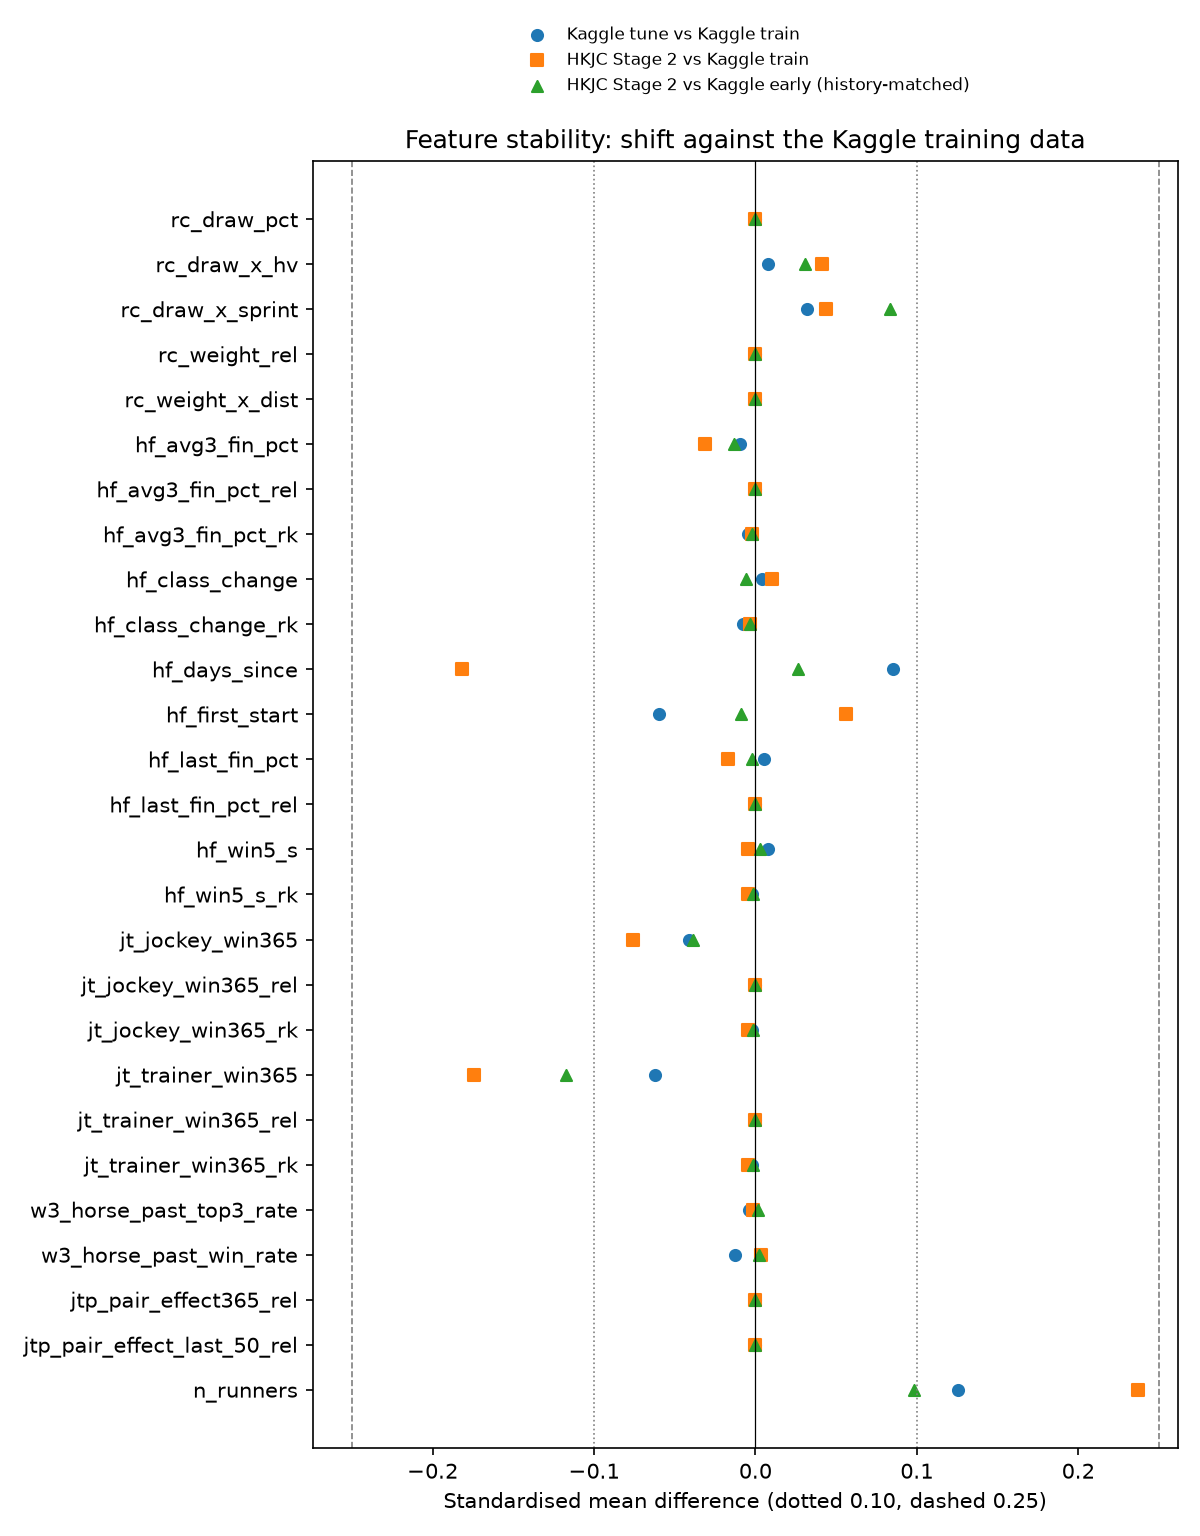
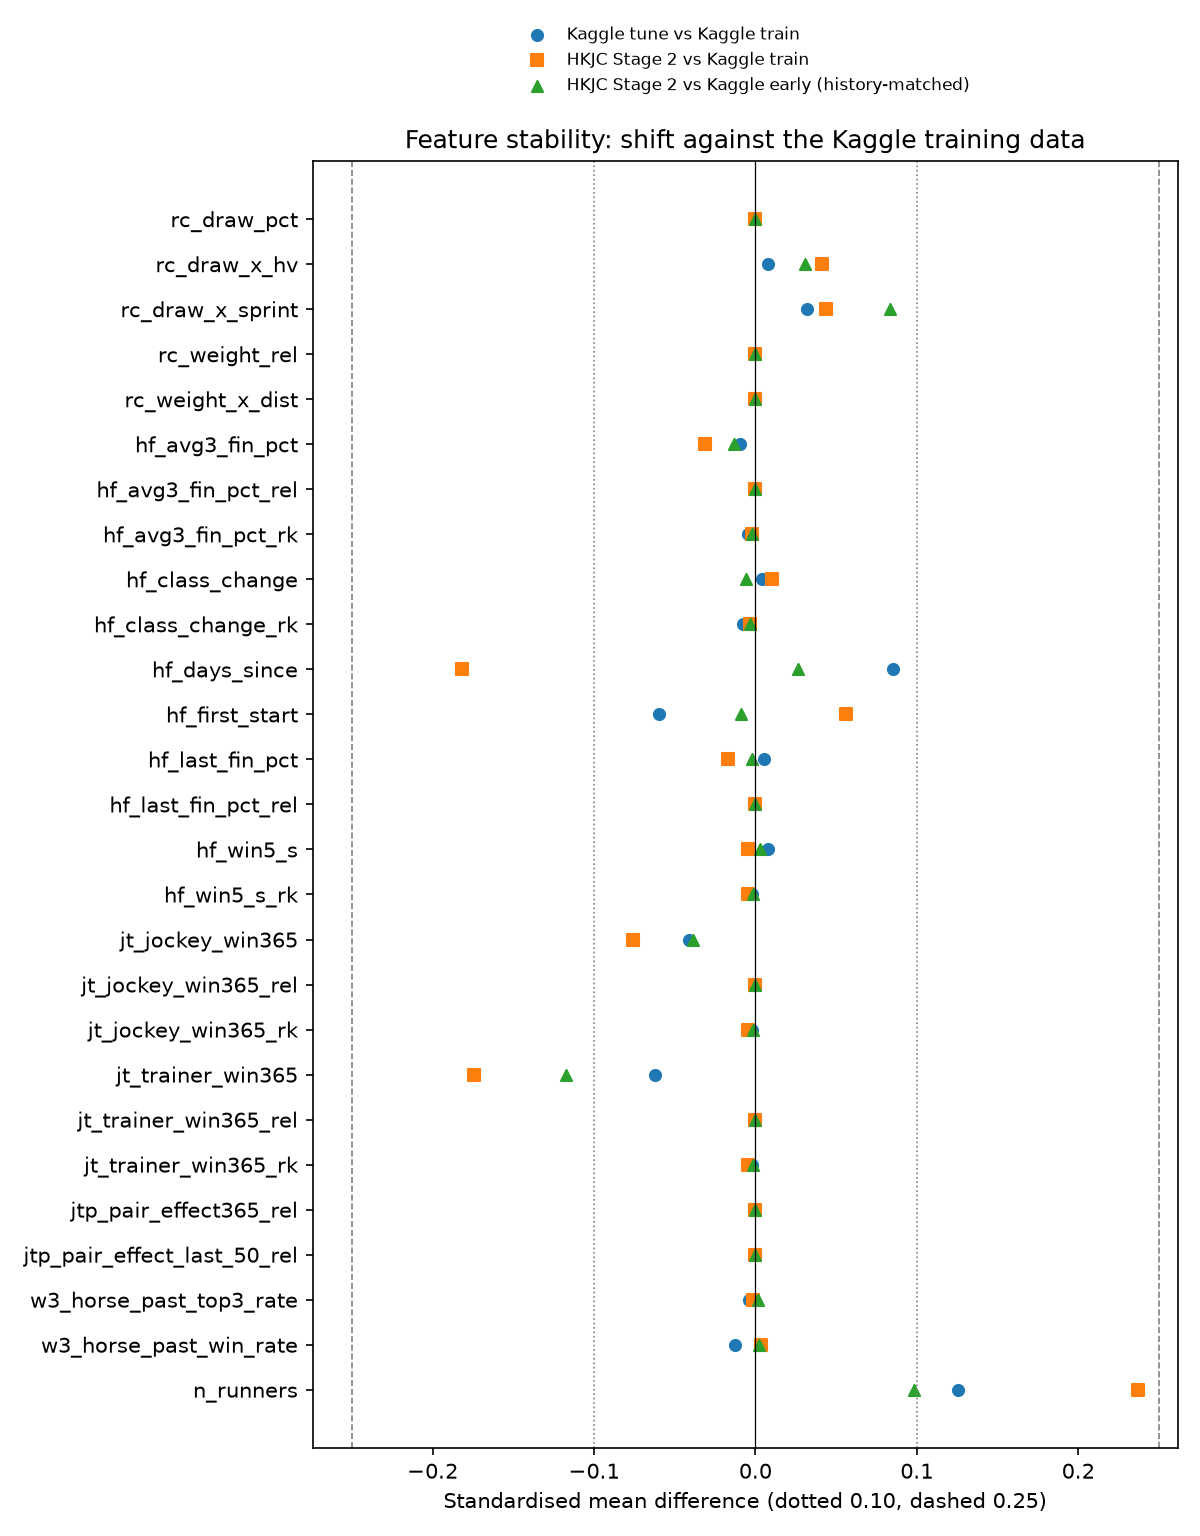
Stability audit: read features from the registry, show registry disagreements
Feature list now comes from model_logic/feature_registry.py joined with the model scripts' lists; new --all-registry flag audits helper columns. Report lists features whose registry status differs from the audit (today: both jt_trainer_win365 features, registry watch vs audit review). Treats jtp_ and td_ as history features. Re-run on 5933fa2 reproduces the 4 Nov numbers exactly (max diff 0.0). README label and test count updated.

Changed region(s): [[0.0308, 0.7812, 0.2467, 0.9062], [0.6167, 0.8125, 0.6475, 0.875]]

diff --git a/analysis/feature_stability_audit.py b/analysis/feature_stability_audit.py
@@ -46,7 +46,8 @@ MISSING_PP = 5.0           # blank-rate difference, percentage points
 EFFECT_Z = 2.0             # coefficient difference, in combined standard errors
 REFERENCE = "k_train"
 EFFECT_WINDOWS = ["k_train", "k_early", "k_tune", "h_s2"]   # never h_test
-HISTORY_GROUPS = ("hf", "jt", "w3")      # features built from a horse's or person's past starts
+# features built from a horse's, person's or pair's past starts (shorter HKJC history shifts them)
+HISTORY_GROUPS = ("hf", "jt", "jtp", "td", "w3")
 RAW_VERSIONS = ["jt_jockey_win365", "jt_trainer_win365", "hf_last_fin_pct", "hf_avg3_fin_pct"]
 
 
@@ -64,16 +65,51 @@ def load(name: str):
     return module
 
 
-def build(data_path: Path) -> tuple[pd.DataFrame, list[str]]:
+def build(data_path: Path, all_registry: bool = False) -> tuple[pd.DataFrame, list[str], dict]:
+    """Build the features the models use and decide which ones to audit.
+
+    The feature list comes from Fahim's registry (model_logic/feature_registry.py), joined with
+    the model scripts' own lists, so a feature added to the registry is audited automatically.
+    Default = every feature a model can use (registry "lgbm" set, which includes the
+    conditional-logit set, plus the scripts' lists and the raw versions). With all_registry=True
+    every IMPLEMENTED registry feature is audited, including intermediate helper columns
+    (ride counts, baselines) that no model reads directly.
+
+    Returns the built data, the audited feature names, and a coverage dict.
+    """
     cl = load("conditional_logit_tuning_v2")
     lgb2 = load("lightgbm_independent_probability_v2")
     v1 = load("lightgbm_independent_probability")
+    fr = load("feature_registry")
     data = cl.build_features(pd.read_parquet(data_path))
     v2 = lgb2.add_context_features(data, list(cl.ALL_FEATURES))
-    feats = set(cl.ALL_FEATURES) | set(v2) | set(v1.FEATURES) | set(RAW_VERSIONS)
-    order = {"rc": 0, "hf": 1, "jt": 2, "w3": 3}
+    scripts = set(cl.ALL_FEATURES) | set(v2) | set(v1.FEATURES) | set(RAW_VERSIONS)
+    registry_models = set(fr.get_features("lgbm")) | set(fr.get_features("conditional_logit"))
+    registry_all = set(fr.get_features("all"))
+    wanted = scripts | registry_models | (registry_all if all_registry else set())
+    # a feature the builder does not produce cannot be audited; report it instead of crashing
+    feats = {f for f in wanted if f in data.columns}
+    order = {"rc": 0, "hf": 1, "jt": 2, "jtp": 3, "td": 4, "w3": 5}
     feats = sorted(feats, key=lambda f: (order.get(f.split("_")[0], 9), f))
-    return data, feats
+    coverage = {
+        "registry_version": fr.REGISTRY_VERSION,
+        "registry_hash": fr.registry_hash(),
+        "registry_implemented": len(registry_all),
+        "registry_implemented_not_audited": sorted(registry_all - set(feats)),
+        "wanted_but_not_built": sorted(wanted - set(feats)),
+        "all_registry": all_registry,
+    }
+    return data, feats, coverage
+
+
+def add_registry_status(summary: pd.DataFrame) -> pd.DataFrame:
+    """Attach the status Fahim's registry gives each feature, and flag disagreements."""
+    fr = load("feature_registry")
+    registry = {spec.name: spec.status for spec in fr.REGISTRY}
+    out = summary.copy()
+    out["registry_status"] = out["feature"].map(registry)
+    out["status_agrees"] = out["status"].eq(out["registry_status"])
+    return out
 
 
 def windows(d: pd.DataFrame) -> dict[str, pd.Series]:
@@ -286,6 +322,28 @@ def report(summary: pd.DataFrame, meta: dict, path: Path) -> None:
             f"{fmt(r['smd_h_s2_vs_k_early'])} | {r['psi_h_s2']:.3f} | {r['psi_h_s2_vs_k_early']:.3f} | "
             f"{r['psi_k_tune']:.3f} | {fmt(r['missing_pp_h_s2'], 1)} | {coef(r, 'k_train')} | "
             f"{coef(r, 'k_early')} | {coef(r, 'h_s2')} | {r['reasons']} |")
+    # where this audit and Fahim's feature registry give a feature different statuses
+    cov = meta.get("coverage", {})
+    lines += ["", "## Agreement with the feature registry", "",
+              f"Registry `{cov.get('registry_version', '?')}` (hash `{str(cov.get('registry_hash', ''))[:12]}...`). "
+              f"{cov.get('registry_implemented', '?')} implemented features; "
+              f"{len(cov.get('registry_implemented_not_audited', []))} not audited in this run "
+              f"({'all registry features' if cov.get('all_registry') else 'default: model inputs only; use --all-registry for helper columns'}).", ""]
+    if "status_agrees" in summary.columns:
+        bad = summary.loc[~summary["status_agrees"]]
+        if bad.empty:
+            lines.append("Every audited feature has the same status in the registry and in this audit.")
+        else:
+            lines += ["These features have a different status in the registry than in this audit. "
+                      "Ask the registry owner to update the label, or explain why not.", "",
+                      "| Feature | This audit | Registry | Why this audit says so |", "|---|---|---|---|"]
+            for _, r in bad.iterrows():
+                lines.append(f"| `{r['feature']}` | **{r['status']}** | {r['registry_status']} | {r['reasons']} |")
+    not_built = cov.get("wanted_but_not_built", [])
+    if not_built:
+        lines += ["", f"Listed by a model or the registry but not built by the feature builder, so not audited: "
+                      f"{', '.join(f'`{n}`' for n in not_built)}."]
+
     lines += ["", "## h_test (information only, do not use for feature choice)", "",
               "| Feature | SMD h_test vs h_s2 | PSI h_test vs h_s2 | Blank pp |", "|---|---|---|---|"]
     for _, r in s.iterrows():
@@ -300,12 +358,15 @@ def main() -> int:
     parser = argparse.ArgumentParser()
     parser.add_argument("--data", type=Path, default=REPO / "data/clean data/runners_merged.parquet")
     parser.add_argument("--output-dir", type=Path, default=default_out)
+    parser.add_argument("--all-registry", action="store_true",
+                        help="also audit intermediate registry helper columns (ride counts, baselines)")
     args = parser.parse_args()
     args.output_dir.mkdir(parents=True, exist_ok=True)
     t0 = time.time()
 
-    data, feats = build(args.data)
+    data, feats, coverage = build(args.data, all_registry=args.all_registry)
     stats, summary = audit(data, feats)
+    summary = add_registry_status(summary)
     try:
         commit = subprocess.run(["git", "-C", str(REPO), "rev-parse", "--short", "HEAD"],
                                 capture_output=True, text=True, check=True).stdout.strip()
@@ -320,6 +381,7 @@ def main() -> int:
         "thresholds": {"smd": [SMD_SMALL, SMD_LARGE], "psi": [PSI_SMALL, PSI_LARGE],
                        "missing_pp": MISSING_PP, "effect_z": EFFECT_Z},
         "effect_windows": EFFECT_WINDOWS,
+        "coverage": coverage,
     }
     stats.to_csv(args.output_dir / "window_stats.csv", index=False)
     summary.to_csv(args.output_dir / "stability_summary.csv", index=False)
@@ -327,6 +389,10 @@ def main() -> int:
     figure(summary, args.output_dir / "smd_by_feature.png")
     report(summary, meta, args.output_dir / "stability_report.md")
     print(summary["status"].value_counts().to_string())
+    disagree = summary.loc[~summary["status_agrees"], ["feature", "status", "registry_status"]]
+    print(f"registry disagreements: {len(disagree)}")
+    if len(disagree):
+        print(disagree.to_string(index=False))
     print(f"{len(feats)} features in {time.time() - t0:.1f}s -> {args.output_dir}")
     return 0
 

diff --git a/analysis/README_FEATURE_STABILITY.md b/analysis/README_FEATURE_STABILITY.md
@@ -3,7 +3,7 @@
 **Script:** `analysis/feature_stability_audit.py` (about 35 seconds).
 **Results:** [`analysis/feature_stability_results/`](feature_stability_results/) ([`stability_report.md`](feature_stability_results/stability_report.md), [`smd_by_feature.png`](feature_stability_results/smd_by_feature.png), two CSVs, `audit_meta.json`).
 **Owner:** Ek-Anankul Wirith (Inns). Roadmap of 4 Nov, priority 5 ("Job A").
-**Run on:** 4 Nov 2026, 20:01, repo commit `b4a355e`, 27 features (the first run at `c22b3f3` had 25; the 2 new jockey-trainer pair features were added since). Not committed.
+**Run on:** 6 Nov 2026, repo commit `5933fa2`, 27 features, feature registry `v3.0`. First run was 4 Nov at `c22b3f3` with 25 features; the 2 jockey-trainer pair features were added after that. The 6 Nov re-run reproduced every number from the 4 Nov run exactly (maximum difference 0.0, same statuses). The run date and commit are always in `audit_meta.json`.
 
 ---
 
@@ -56,7 +56,7 @@ The KS statistic is also in the CSV. With thousands of runners, its p-value flag
 2. **watch** if anything else is flagged: a moderate shift, a shift explained by history length, drift inside Kaggle (train to tune), a blank-rate difference, or a different effect size.
 3. **keep** if nothing is flagged.
 
-"Explained by history length" is only applied to features built from past starts (`hf_`, `jt_`, `w3_`). Field size, for example, cannot be explained that way.
+"Explained by history length" is only applied to features built from past starts (`hf_`, `jt_`, `jtp_`, `td_`, `w3_`). Field size, for example, cannot be explained that way.
 
 ## 6. Results, feature by feature
 
@@ -94,7 +94,7 @@ Draw (`rc_draw_pct`, `rc_draw_x_hv`, `rc_draw_x_sprint`), weight (`rc_weight_rel
 | `jtp_pair_effect365_rel` | 0.047 | 0.009 | +0.334 ± 0.022 | +0.415 ± 0.056 | +0.274 ± 0.060 |
 | `jtp_pair_effect_last_50_rel` | 0.044 | 0.014 | +0.350 ± 0.022 | +0.393 ± 0.045 | +0.285 ± 0.056 |
 
-Both keep their shape in HKJC, and their effect is slightly smaller but within error. Unlike the trainer rate on its own, the pair signal carries over. Both also pass the leakage tests (22 of 22), including the source-separation test that matters for the "last 50 rides" version, which has no time window.
+Both keep their shape in HKJC, and their effect is slightly smaller but within error. Unlike the trainer rate on its own, the pair signal carries over. Both also pass the leakage tests (33 of 33), including the source-separation test that matters for the "last 50 rides" version, which has no time window.
 
 ### h_test (information only)
 
@@ -117,21 +117,32 @@ cd github\HKJC-Racing
 python analysis\feature_stability_audit.py
 ```
 
-Expected end of output:
+Expected end of output (about 1 minute):
 
 ```
 status
 keep      17
 watch      8
 review     2
-27 features in 47.4s -> ...\analysis\feature_stability_results
+registry disagreements: 2
+              feature status registry_status
+    jt_trainer_win365 review           watch
+jt_trainer_win365_rel review           watch
+27 features in 57.7s -> ...\analysis\feature_stability_results
 ```
 
 The numbers change whenever Fahim or Nayeon add features. That is expected; check that the new features appear in the report.
 
-Options: `--data <parquet>` for another input, `--output-dir <folder>` for another output folder.
+Options:
+- `--data <parquet>`: another input file.
+- `--output-dir <folder>`: another output folder.
+- `--all-registry`: also audit the intermediate helper columns in the registry (ride counts, baselines, raw pair rates) that no model reads directly. Takes about 80 seconds. Use a different `--output-dir` if you do not want to overwrite the default results.
 
-New features are picked up automatically if they are added to `ALL_FEATURES` in `conditional_logit_tuning_v2.py` or to the LightGBM feature lists (the same lists the leakage tests use). Run the leakage tests first (`leakage test/README_LEAKAGE_TESTS.md`), then this audit.
+**Where the feature list comes from (changed 6 Nov).** The audit reads Fahim's registry (`model_logic/feature_registry.py`) and joins it with the model scripts' own lists. So a feature added to the registry is audited automatically, as long as the feature builder actually produces it. A feature the registry or a model lists but the builder does not produce is reported in the "not built" line instead of crashing. Run the leakage tests first (`leakage test/README_LEAKAGE_TESTS.md`), then this audit.
+
+**Agreement with the registry.** Each feature in the registry carries its own status (`keep`, `watch`, `review`, `unaudited`). The report has a section listing every feature where the registry and this audit disagree. Today that is the two trainer features (registry `watch`, audit `review`). The audit never edits the registry; the registry owner changes the label, or explains why not.
+
+**What the `--all-registry` run showed (6 Nov, 37 features: 20 keep, 15 watch, 2 review).** The 10 extra helper columns are all `jtp_pair_*`. None is `review`. Seven are `watch`, mostly because HKJC horses and pairs have shorter histories, and two more (`jtp_pair_win365_rel`, `jtp_pair_win_last_50_rel`) are marked `keep` in the registry but `watch` here (PSI 0.19 and 0.15). They are not model inputs; the models read the `*_effect_*_rel` versions, which are `keep` in both.
 
 **Reading the outputs:**
 
@@ -149,6 +160,7 @@ New features are picked up automatically if they are added to `ALL_FEATURES` in 
 - **A bug found and fixed:** the first version put 0 and 1 in the same bin, so yes/no features (like `hf_first_start`) always showed PSI 0. Fixed before the results above.
 - **Trainer flag checked by hand:** the share of trainer rates sitting exactly at the prior is similar in all windows (0.8-1.2%), so the shift is a real narrowing of the spread, not a pile-up at the prior.
 - **No test-window results used:** effects are fitted only on `k_train`, `k_early`, `k_tune` and `h_s2` (the code asserts this).
+- **Registry change checked (6 Nov):** after switching the feature list to the registry, the default run was compared with the previous one. Same 27 features, maximum numeric difference 0.0, all statuses identical. The only new things are two columns in `stability_summary.csv` (`registry_status`, `status_agrees`) and the registry section in the report.
 - **Import fix (4 Nov evening):** after Fahim's builder started importing `jt_partnership_features`, the audit crashed when run from the repo root. The loader now adds both the repo root and `model_logic/` to Python's import path. The same fix was made in `leakage test/test_leakage.py`.
 
 ## 10. Limits

diff --git a/analysis/feature_stability_results/stability_report.md b/analysis/feature_stability_results/stability_report.md
@@ -1,6 +1,6 @@
 # Feature stability audit (generated)
 
-Generated 2026-11-04 21:07 from `runners_merged.parquet` (SHA-256 `d2f8418a5972...`), repo commit `33ca1b0`. 27 features.
+Generated 2026-11-06 19:23 from `runners_merged.parquet` (SHA-256 `d2f8418a5972...`), repo commit `5933fa2`. 27 features.
 
 **Result:** 2 review, 8 watch, 17 keep.
 
@@ -41,6 +41,17 @@ Columns: shift of HKJC Stage 2 (h_s2) against Kaggle train, and against Kaggle e
 | `rc_weight_x_dist` | **keep** | -0.00 | -0.00 | 0.031 | 0.045 | 0.005 | +0.0 | +0.012 ± 0.027 | -0.042 ± 0.048 | -0.060 ± 0.056 | - |
 | `w3_horse_past_top3_rate` | **keep** | -0.00 | +0.00 | 0.040 | 0.002 | 0.014 | +1.5 | +0.509 ± 0.027 | +0.496 ± 0.048 | +0.517 ± 0.045 | - |
 | `w3_horse_past_win_rate` | **keep** | +0.00 | +0.00 | 0.010 | 0.000 | 0.006 | +1.5 | +0.354 ± 0.023 | +0.349 ± 0.039 | +0.310 ± 0.040 | - |
+
+## Agreement with the feature registry
+
+Registry `v3.0` (hash `36fdc70d579d...`). 37 implemented features; 10 not audited in this run (default: model inputs only; use --all-registry for helper columns).
+
+These features have a different status in the registry than in this audit. Ask the registry owner to update the label, or explain why not.
+
+| Feature | This audit | Registry | Why this audit says so |
+|---|---|---|---|
+| `jt_trainer_win365` | **review** | watch | large Kaggle->HKJC shift, also against the history-matched window; large drift inside Kaggle (train->tune); effect weaker in HKJC, also against the history-matched window |
+| `jt_trainer_win365_rel` | **review** | watch | large Kaggle->HKJC shift, also against the history-matched window; moderate drift inside Kaggle (train->tune); effect weaker in HKJC, also against the history-matched window |
 
 ## h_test (information only, do not use for feature choice)
 
